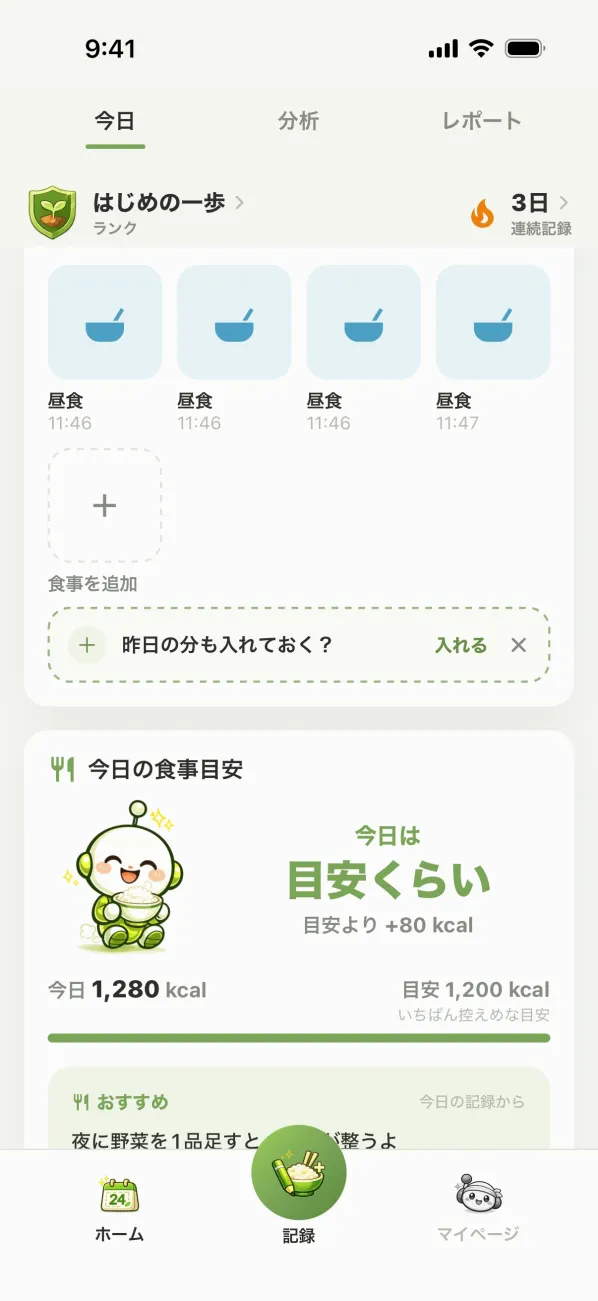
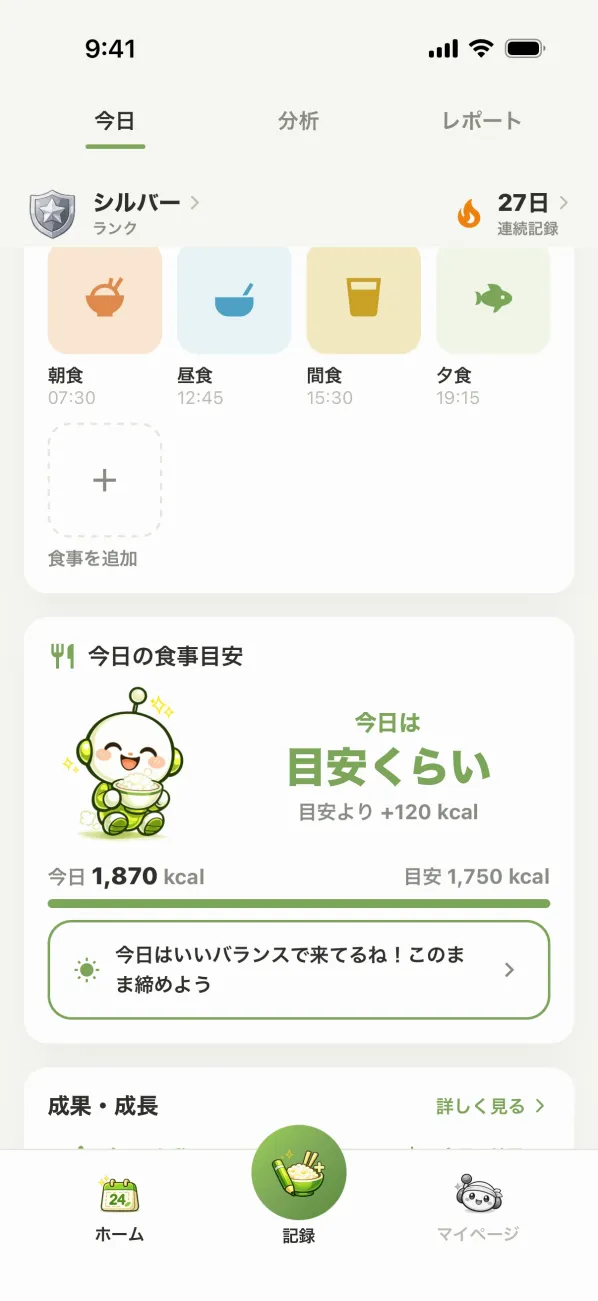
LP: 時刻をタイトルのすぐ上に／「目安くらい」の画面を朝・昼・間食・夕の1日で撮り直す／撮る絵のスマホにカレーを写す（Codex）

diff --git a/index.html b/index.html
@@ -97,8 +97,8 @@
 
 <section class="slot slot-morning" aria-labelledby="s-morning">
   <div class="wrap slot-grid">
-    <div class="clock"><i class="dot" aria-hidden="true"></i><span class="t">07:30</span><span class="m">朝ごはん</span></div>
     <div class="copy">
+      <div class="clock"><i class="dot" aria-hidden="true"></i><span class="t">07:30</span><span class="m">朝ごはん</span></div>
       <h2 id="s-morning">書くだけ。<br><span class="g">「、」</span>で、何品でも。</h2>
       <p>思いついた順に書けば、めし丸が品に分けて、カロリーと栄養を出します。辞書にない料理も、AI がだいたい見積もります。</p>
       <ul class="ticks">
@@ -116,8 +116,8 @@
 
 <section class="slot slot-noon" aria-labelledby="s-noon">
   <div class="wrap slot-grid">
-    <div class="clock"><i class="dot" aria-hidden="true"></i><span class="t">12:15</span><span class="m">お昼</span></div>
     <div class="copy">
+      <div class="clock"><i class="dot" aria-hidden="true"></i><span class="t">12:15</span><span class="m">お昼</span></div>
       <h2 id="s-noon">撮るだけ。<br><span class="g">写真1枚</span>で。</h2>
       <p>料理の写真から、めし丸がカロリーを見積もります。コンビニのお弁当やおやつは、パッケージの栄養成分表示も読み取れます。</p>
       <ul class="ticks">
@@ -135,8 +135,8 @@
 
 <section class="slot slot-snack" aria-labelledby="s-snack">
   <div class="wrap slot-grid">
-    <div class="clock"><i class="dot" aria-hidden="true"></i><span class="t">15:00</span><span class="m">おやつ</span></div>
     <div class="copy">
+      <div class="clock"><i class="dot" aria-hidden="true"></i><span class="t">15:00</span><span class="m">おやつ</span></div>
       <h2 id="s-snack">多めの日も、<br><span class="g">責めない。</span></h2>
       <p>1日の目安は、あなたの体と目的から出します。少し超えた日は「目安くらい」。多めの日も、数字をそっと見せるだけ。体が1日に使う量までの「無理のない幅」も確かめられます。</p>
       <div class="meter" role="img" aria-label="目安までは「あと何キロカロリー」、目安の110パーセントまでは「目安くらい」、それより多い日は「多めの日」と表示します">
@@ -158,8 +158,8 @@
 
 <section class="slot slot-evening" aria-labelledby="s-evening">
   <div class="wrap slot-grid">
-    <div class="clock"><i class="dot" aria-hidden="true"></i><span class="t">19:00</span><span class="m">夕ごはん</span></div>
     <div class="copy">
+      <div class="clock"><i class="dot" aria-hidden="true"></i><span class="t">19:00</span><span class="m">夕ごはん</span></div>
       <h2 id="s-evening">いつものごはんは、<br><span class="g">1タップ</span>。</h2>
       <p>前と同じ食事や、よく食べるものは選ぶだけ。つけ忘れた日の分も、30日前まであとから書けます。</p>
       <ul class="ticks">
@@ -178,8 +178,8 @@
 <section class="night" aria-labelledby="s-night">
   <div class="slot">
     <div class="wrap slot-grid">
-      <div class="clock"><i class="dot" aria-hidden="true"></i><span class="t">21:30</span><span class="m">ふり返り</span></div>
       <div class="copy">
+      <div class="clock"><i class="dot" aria-hidden="true"></i><span class="t">21:30</span><span class="m">ふり返り</span></div>
         <h2 id="s-night">書いた分だけ、<br><span class="g">おうちが育つ。</span></h2>
         <p>記録すると、めし丸のおうちが少しずつ育ちます。続けると、おうちに置けるプレゼントが届きます。週と月の傾向で、1日のぶれより流れが見えてきます。</p>
         <ul class="ticks">
@@ -205,8 +205,8 @@
 
 <section class="slot slot-next" aria-labelledby="s-next">
   <div class="wrap slot-grid">
-    <div class="clock"><i class="dot" aria-hidden="true"></i><span class="t">12:15</span><span class="m">次の日</span></div>
     <div class="copy">
+      <div class="clock"><i class="dot" aria-hidden="true"></i><span class="t">12:15</span><span class="m">次の日</span></div>
       <h2 id="s-next">声をかけるのは、<br><span class="g">1日1回</span>だけ。</h2>
       <p>声をかけてほしい時間を、朝・昼・夜から選べます。記録した次の日は、同じころに1回だけ。食べた物は通知に出しません。マイページでいつでも止められます。</p>
     </div>

diff --git a/home.css b/home.css
@@ -30,7 +30,7 @@ a{color:inherit;text-decoration:none}
 .logo img{height:30px;width:auto}
 .top-nav{display:flex;align-items:center;gap:24px;font-size:14px;font-weight:700;color:var(--sub)}
 .top-nav a:not(.top-cta):hover{color:var(--green-ink)}
-.top-cta{background:var(--ink);color:var(--paper);border-radius:999px;padding:9px 18px;font-size:14px}
+.top-cta{background:var(--ink);color:var(--paper);border-radius:999px;padding:9px 18px;font-size:14px;white-space:nowrap}
 .top-cta:hover{background:var(--green-ink)}
 @media (max-width:760px){.top-nav .navlink{display:none}}
 
@@ -101,11 +101,13 @@ a{color:inherit;text-decoration:none}
 .day-intro h2 .l{display:inline-block}
 
 .slot{position:relative;padding:64px 0}
-.slot-grid{display:grid;grid-template-columns:160px minmax(0,1fr) minmax(0,1fr);gap:24px 48px;align-items:center}
-.clock{align-self:start;position:sticky;top:96px;display:flex;flex-direction:column;gap:2px}
-.clock .t{font-family:var(--display);font-weight:900;font-size:44px;line-height:1;color:var(--ink);font-variant-numeric:tabular-nums;letter-spacing:-.02em}
+.slot-grid{display:grid;grid-template-columns:minmax(0,1fr) minmax(0,1fr);gap:24px 56px;align-items:center}
+/* 時刻はタイトルのすぐ上（左の点線の時間の流れの上に点を置く） */
+.copy{position:relative;padding-left:44px}
+.clock{position:relative;display:flex;align-items:baseline;gap:12px;margin-bottom:14px}
+.clock .t{font-family:var(--display);font-weight:900;font-size:40px;line-height:1;color:var(--ink);font-variant-numeric:tabular-nums;letter-spacing:-.02em}
 .clock .m{font-family:var(--hand);font-weight:600;font-size:17px;color:var(--green-ink)}
-.clock .dot{width:12px;height:12px;border-radius:50%;background:var(--green);box-shadow:0 0 0 5px var(--green-pale);margin-bottom:12px}
+.clock .dot{position:absolute;left:-44px;top:50%;width:12px;height:12px;margin-top:-8px;border-radius:50%;background:var(--green);box-shadow:0 0 0 5px var(--green-pale)}
 .slot::before{content:"";position:absolute;left:calc(var(--gutter) + 5px);top:0;bottom:0;width:2px;background:repeating-linear-gradient(var(--green) 0 6px,transparent 6px 14px);opacity:.45}
 @media (min-width:1200px){.slot::before{left:calc((100vw - 1160px)/2 + 25px)}}
 .copy h2{font-family:var(--display);font-weight:900;color:var(--brown);font-size:clamp(28px,3.3vw,42px);line-height:1.32;letter-spacing:-.01em;margin-bottom:16px}
@@ -124,10 +126,9 @@ a{color:inherit;text-decoration:none}
 @media (max-width:900px){
   .slot{padding:48px 0 56px}
   .slot-grid{grid-template-columns:minmax(0,1fr);gap:18px}
-  .clock{position:static;flex-direction:row;align-items:baseline;gap:12px;padding-left:22px}
-  .clock .dot{position:absolute;left:var(--gutter);margin:0;transform:translate(0,6px)}
-  .clock .t{font-size:36px}
-  .copy{padding-left:22px}
+  .copy{padding-left:26px}
+  .clock .dot{left:-26px}
+  .clock .t{font-size:34px}
   .art{min-height:0;padding:12px 0 8px}
 }
 
@@ -178,7 +179,7 @@ a{color:inherit;text-decoration:none}
 .night .il.gift{width:38%;max-width:200px;left:-6%;bottom:40px}
 .night .memo{color:rgba(244,241,222,.75)}
 .night-cards{display:grid;grid-template-columns:repeat(auto-fit,minmax(250px,1fr));gap:14px;margin-top:56px}
-@media (min-width:1120px){.night-cards{padding-left:208px}}
+@media (min-width:901px){.night-cards{padding-left:44px}}
 .ncard{background:var(--forest-2);border-radius:18px;padding:18px 18px 20px;display:grid;grid-template-columns:72px minmax(0,1fr);gap:14px;align-items:center}
 .ncard img{width:72px;height:72px;object-fit:contain}
 .ncard b{display:block;font-family:var(--display);font-size:16.5px;color:var(--moon);line-height:1.45}
